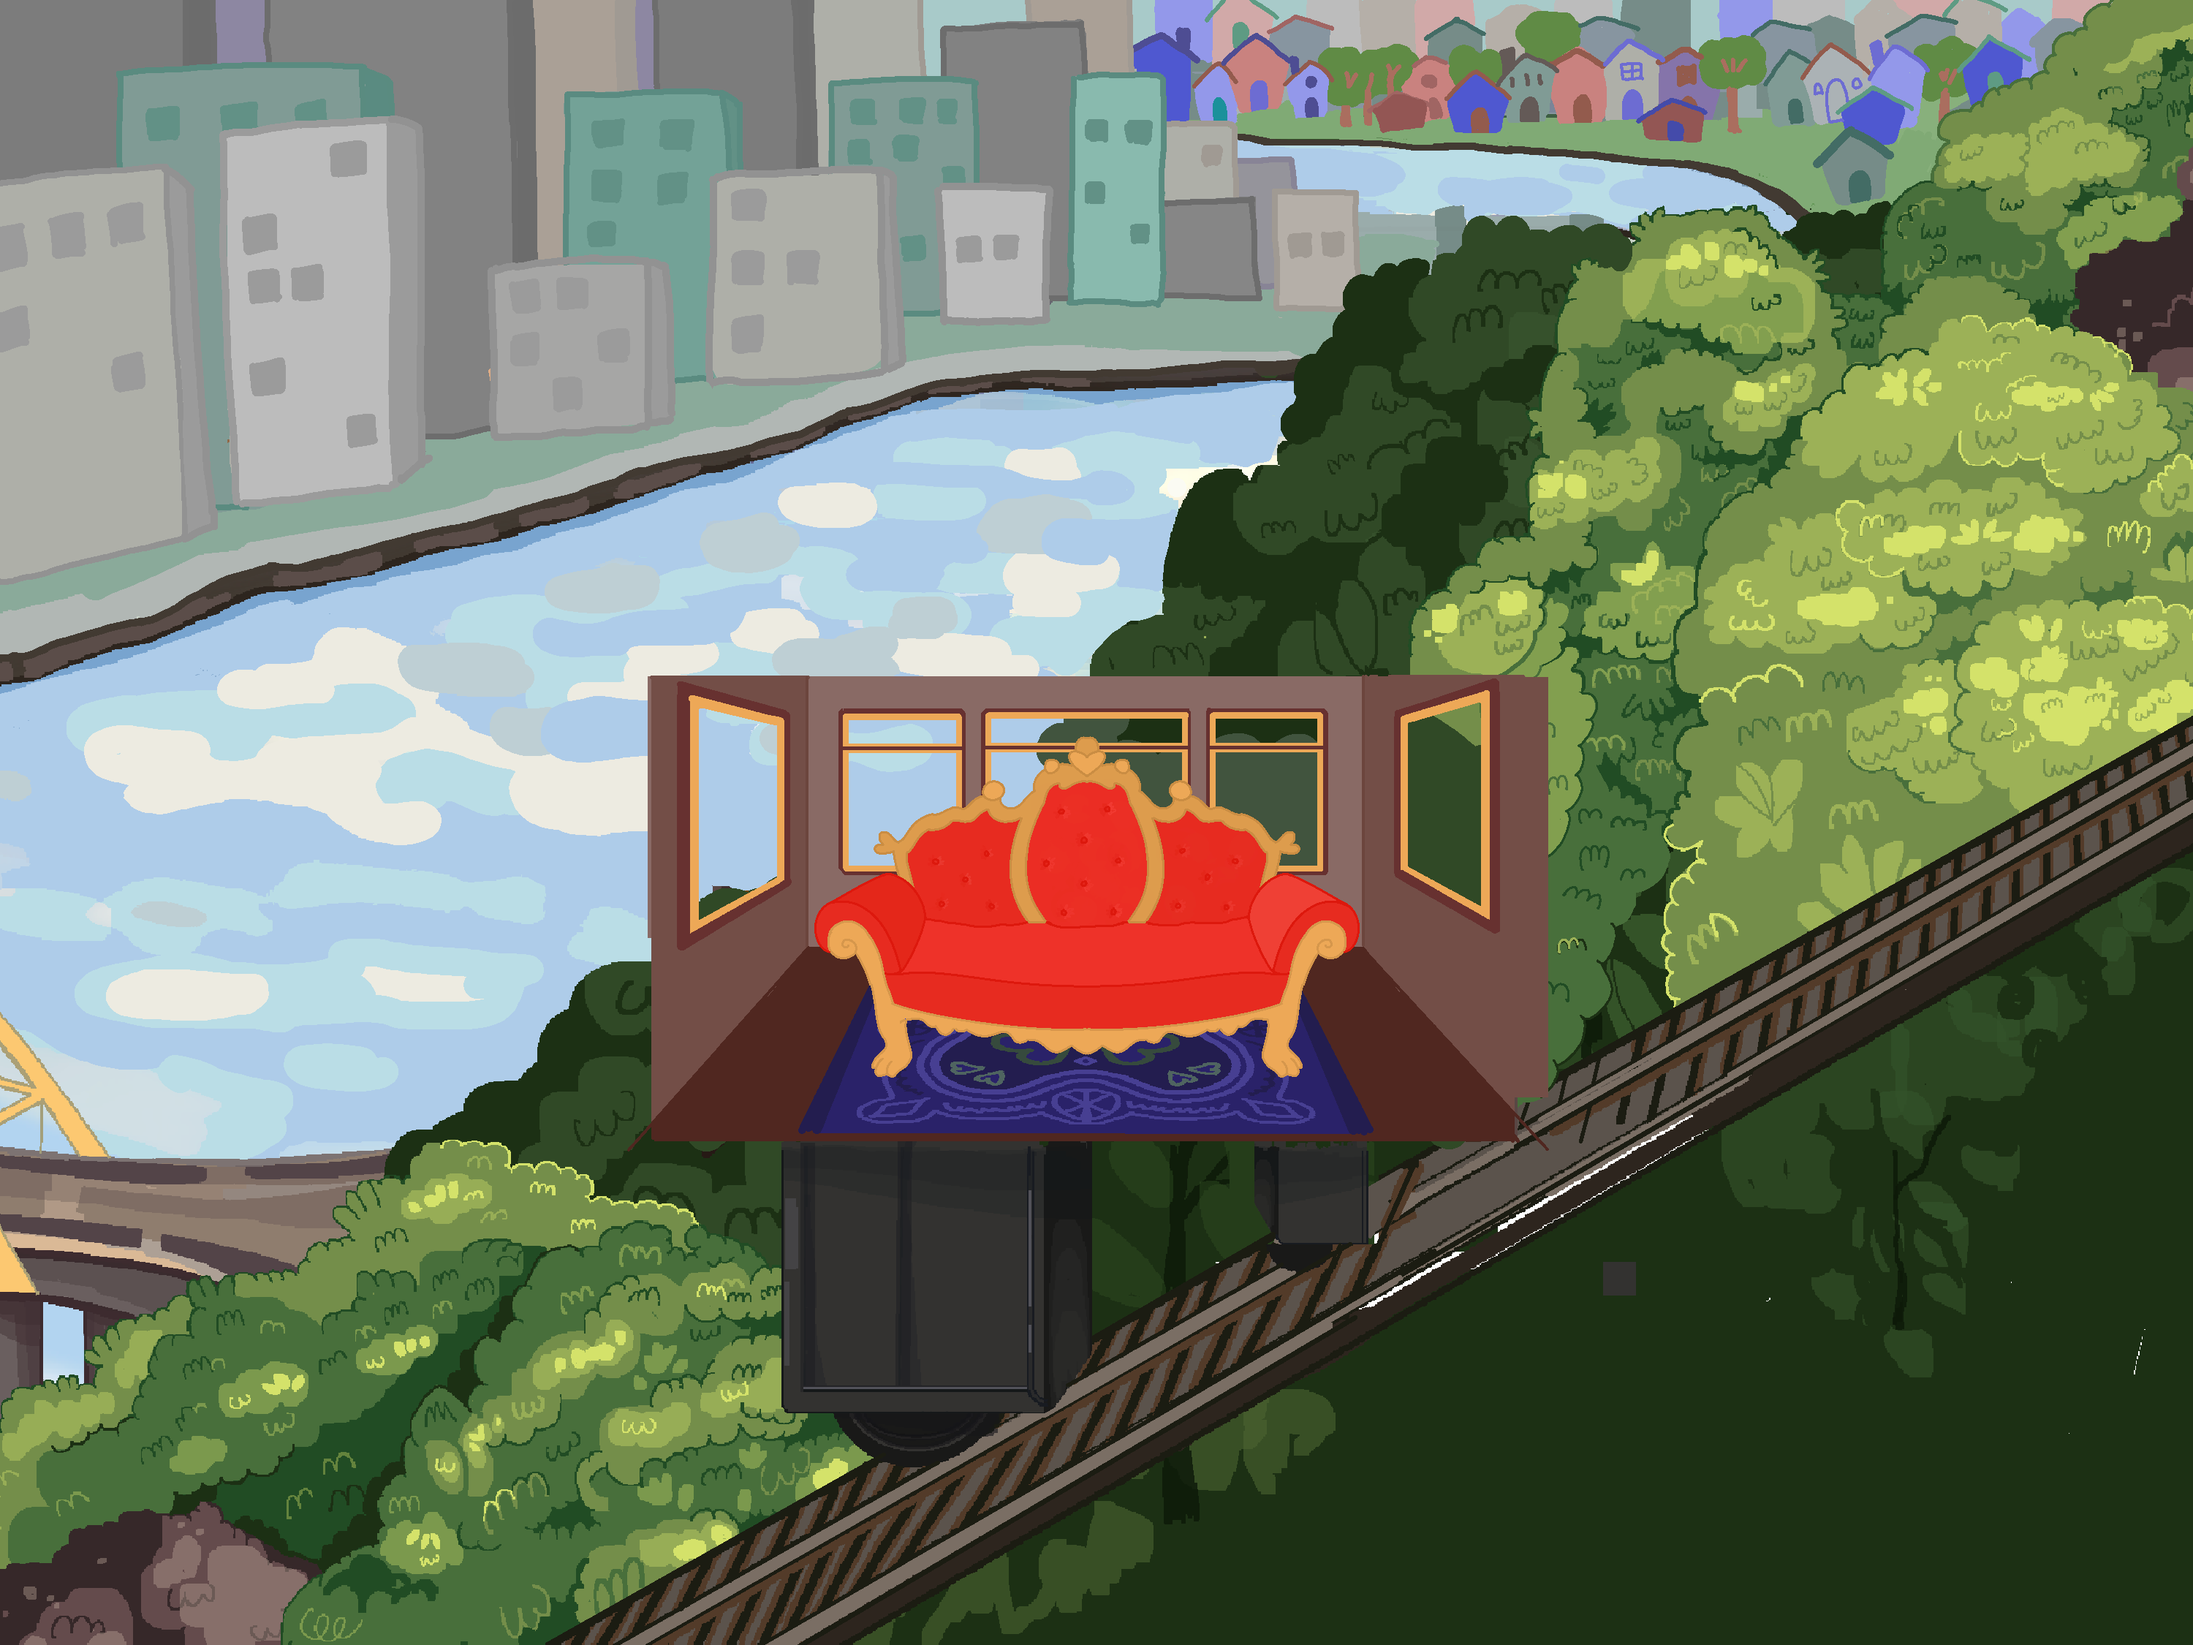
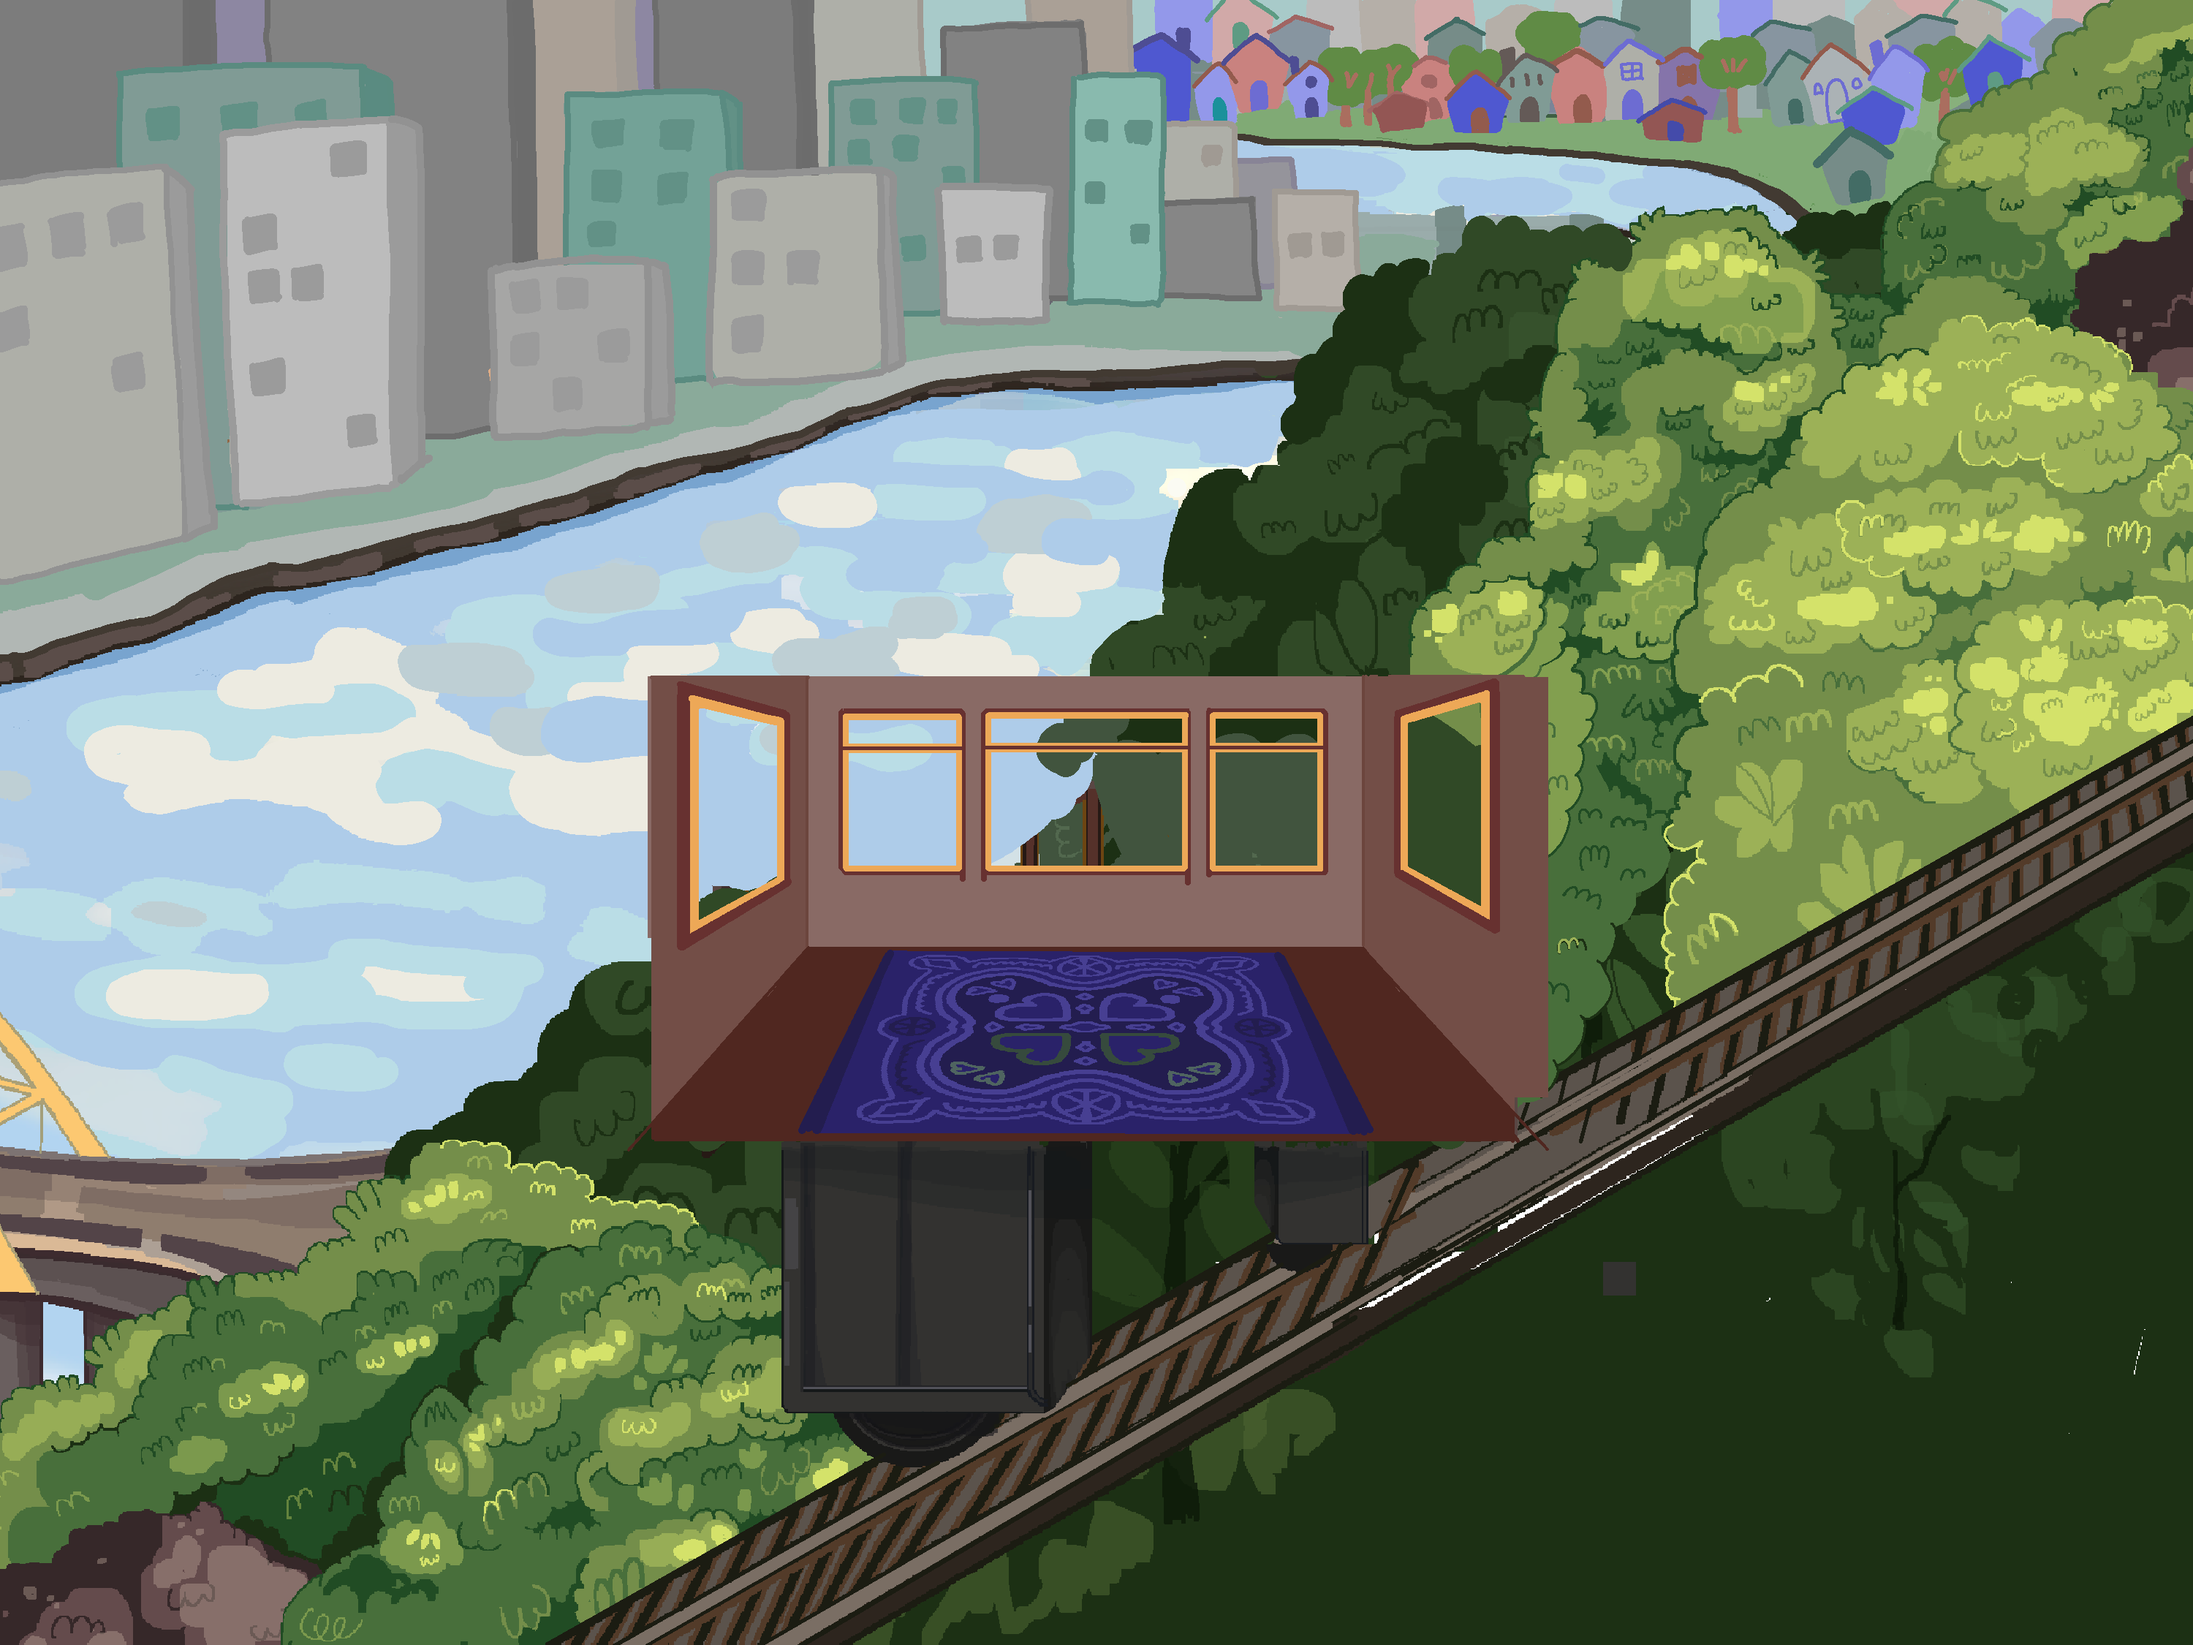
add epilogue and other small bug fixes

Changed region(s): [[0.372, 0.4356, 0.62, 0.6533]]

diff --git a/src/components/App/App.js b/src/components/App/App.js
@@ -79,7 +79,7 @@ function RatchelorApp() {
   // Keep track of rat feelings so rats can leave if disrespected.
   const [ratFeelings, setRatFeelings] = useState({});
 
-  // Todo
+  // Tracks which rat is currently leaving, if any.
   const [currentlyLeavingRat, setCurrentlyLeavingRat] = useState(null);
 
   // The player avatar that was selected.
@@ -143,7 +143,6 @@ function RatchelorApp() {
     }, 2000);
   }
 
-  // TODO
   function goToPlayerSelect() {
     updateMusic("intro.mp3");
     playInterlude("Meet yourself", () => {
@@ -151,21 +150,18 @@ function RatchelorApp() {
     });
   }
 
-  // TODO
   function goToPlayerCustomization() {
     playInterlude("Dress up for the show!", () => {
       setGameStage(GameStages.PLAYER_CUSTOMIZATION);
     });
   }
 
-  // TODO
   function goToRatSelect() {
     playInterlude("Meet your suitors", () => {
       setGameStage(GameStages.RAT_SELECT);
     });
   }
 
-  // TODO
   function goToTalkingToRats() {
     setRandomizedActiveRats(activeRats.sort(() => 0.5 - Math.random()));
     setRandomLeavingResponse(Math.random());
@@ -175,15 +171,14 @@ function RatchelorApp() {
     });
   }
 
-  // TODO
   function goToRoseCeremony() {
     updateMusic("rose_ceremony.mp3");
+    console.log(ratFeelings);
     playInterlude("Who gets a rose?", () => {
       setGameStage(GameStages.ROSE_CEREMONY);
     });
   }
 
-  // TODO
   function goToNextRound(chosenRats) {
     if (round === NUM_ROUNDS - 1) {
       updateMusic("romantic_sad.mp3");
@@ -204,14 +199,12 @@ function RatchelorApp() {
     });
   }
 
-  // TODO
   function goToEpilogue() {
     playInterlude("What happened to the others?", () => {
       setGameStage(GameStages.EPILOGUE);
     });
   }
 
-  // TODO
   function goToCredits() {
     updateMusic("intro.mp3");
     playInterlude("Special thanks", () => {
@@ -219,7 +212,6 @@ function RatchelorApp() {
     });
   }
 
-  // TODO
   function goToAnimeEnding() {
     const chosenRat = activeRats[0];
     updateMusic(getRatById(chosenRat)?.ending);
@@ -239,10 +231,9 @@ function RatchelorApp() {
     newFeelings[ratId] = updatedRatScore;
     const randomNumber = Math.random();
     setRatFeelings(newFeelings);
-    if (
-      !currentlyLeavingRat &&
-      randomNumber < Math.abs(updatedRatScore) / NUM_ROUNDS
-    ) {
+    const threshold = ((Math.abs(updatedRatScore) * round) / NUM_ROUNDS) * 0.2;
+    console.log(threshold);
+    if (!currentlyLeavingRat && randomNumber < threshold) {
       setCurrentlyLeavingRat(ratId);
       return true;
     }

diff --git a/src/components/TalkingToRats/TalkingToRats.css b/src/components/TalkingToRats/TalkingToRats.css
@@ -28,6 +28,11 @@
   animation: fadeIn 10ms 5s forwards;
 }
 
+.talking-to-rats-screen .all-images-container.conservatory .contestant {
+  opacity: 0;
+  animation: fadeIn 10ms 7s forwards;
+}
+
 .talking-to-rats-screen .all-images-container.incline .contestant {
   opacity: 0;
   animation: fadeIn 10ms 6s forwards;
@@ -51,12 +56,8 @@
   transform: translate(-45%, -44%);
 }
 
-.talking-to-rats-screen .all-images-container.bus .contestant {
-  opacity: 0;
-  animation: fadeIn 10ms 5s forwards;
-}
-
 .talking-to-rats-screen .all-images-container.cathy {
+  transform: translate(-150px, 1200px);
   animation: cathy 5.5s forwards;
 }
 
@@ -81,11 +82,11 @@
 
 .talking-to-rats-screen .all-images-container.conservatory {
   transform: translate(320px, 156px) scale(0.36);
-  animation: conservatory 5.5s forwards;
+  animation: conservatory 5s linear 1s forwards;
 }
 
 @keyframes conservatory {
-  80% {
+  60% {
     transform: translate(240px, 156px) scale(0.36);
   }
 

diff --git a/src/components/TalkingToRats/TalkingToRats.js b/src/components/TalkingToRats/TalkingToRats.js
@@ -231,6 +231,7 @@ export function TalkingToRats(props) {
             src={`${BACKGROUNDS_IMAGES_BASE_PATH}/${backgroundData.file}`}
             alt=""
           />
+          <img src={`${BACKGROUNDS_IMAGES_BASE_PATH}/couch.png`} alt="" />
           <div className="player-rat">
             <img
               src={`${PLAYER_IMAGES_BASE_PATH}/${props.playerAvatarIndex}.png`}

diff --git a/src/components/Epilogue/Epilogue.js b/src/components/Epilogue/Epilogue.js
@@ -37,6 +37,7 @@ export function Epilogue(props) {
     const randomPhotoData = props.originalRats.map((rat) =>
       getRandomEpiloguePhoto(rat)
     );
+    console.log(randomPhotoData);
     const photosWithoutDupes = noDupes(randomPhotoData, props.finalRat);
     setRandomPhotos(photosWithoutDupes.slice(0, 6));
   }, []);

diff --git a/src/components/RatSelect/RatSelect.css b/src/components/RatSelect/RatSelect.css
@@ -79,7 +79,7 @@
   top: 85%;
   left: -20px;
   width: calc(100% + 40px);
-  z-index: 10;
+  z-index: 1001;
   background-color: var(--secondary-background-color);
   padding: 8px;
   border-radius: 4px;

diff --git a/src/components/RoseCeremony/RoseCeremony.css b/src/components/RoseCeremony/RoseCeremony.css
@@ -69,7 +69,7 @@
   position: absolute;
   bottom: 0px;
   left: 0px;
-  width: 80%;
+  width: 25%;
   z-index: 11;
   pointer-events: none;
 }
